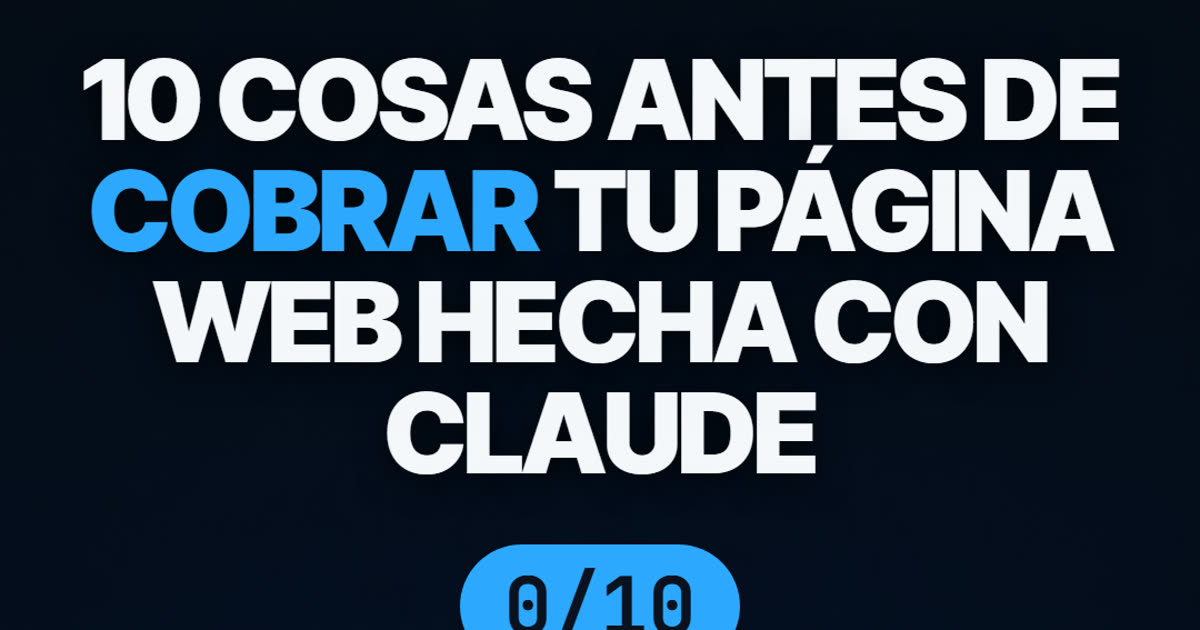
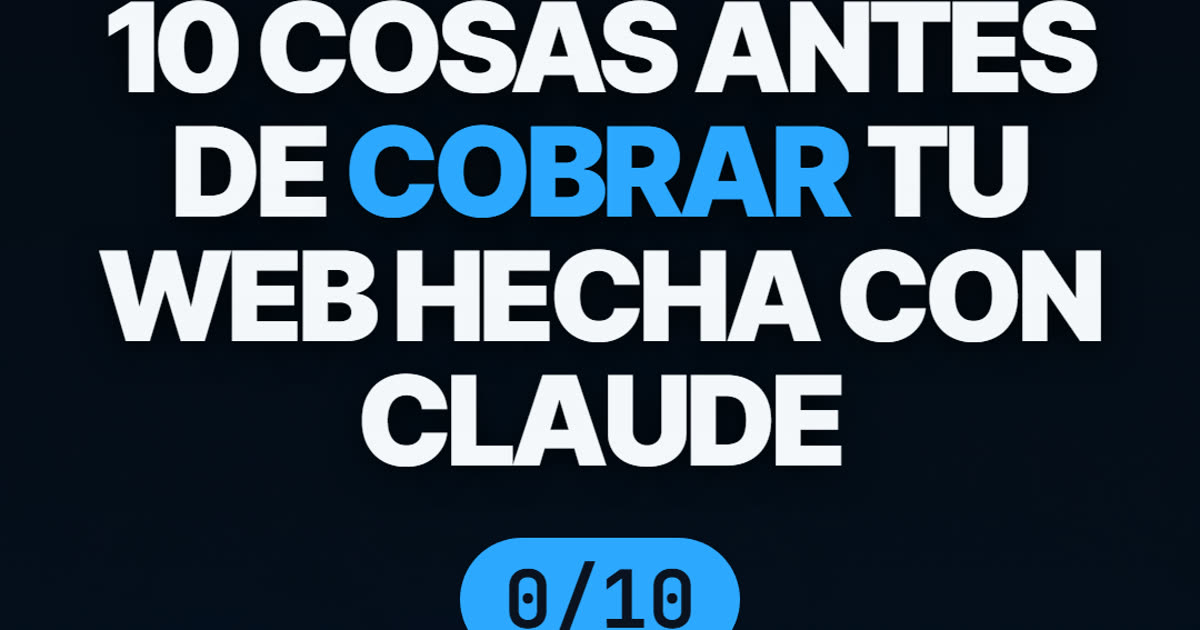
fix: guía WEB con el título corto y la portada nueva de P026.1

diff --git a/index.html b/index.html
@@ -42,7 +42,7 @@ footer a{color:var(--ink)}
 .lista li{margin:0 0 12px}
 .lista a{display:block;text-decoration:none;color:var(--ink);background:var(--card);border:1px solid var(--borde);border-radius:14px;padding:14px 16px}
 .lista b{display:inline-block;color:#111;background:var(--acento);border-radius:6px;padding:1px 8px;margin-right:8px;font-size:13px}</style></head>
-<body><div class="envoltura"><header><a class="marca" href="./">Lumière <span>Autómata</span></a></header><h1>Guías gratis</h1><p class="intro">Las guías y prompts que regalo en mis reels. Toca la tuya.</p><ul class="lista"><li><a href="./app/"><b>APP</b>Checklist APP · 10 cosas antes de cobrar tu app hecha con Claude</a></li><li><a href="./web/"><b>WEB</b>Checklist WEB · 10 cosas antes de cobrar tu página web hecha con Claude</a></li><li><a href="./plan/"><b>PLAN</b>Los 6 prompts de Claude para tu Instagram (Lumière Autómata)</a></li><li><a href="./lenta/"><b>LENTA</b>Guía LENTA · El prompt que revisa tu app antes de tocarla</a></li><li><a href="./memoria/"><b>MEMORIA</b>Revisa lo que ChatGPT recuerda de ti</a></li><li><a href="./candado/"><b>CANDADO</b>5 ajustes de privacidad de WhatsApp</a></li><li><a href="./sonido/"><b>SONIDO</b>Guía SONIDO · que tu video hecho con Claude no suene a juguete</a></li><li><a href="./texto/"><b>TEXTO</b>3 animaciones de texto para tu video con Claude y Remotion</a></li><li><a href="./siete/"><b>SIETE</b>Escribe tu guion al revés: el orden de las 8 piezas</a></li><li><a href="./agenda/"><b>AGENDA</b>3 preguntas para saber si tu agente de WhatsApp agenda de verdad</a></li><li><a href="./obra/"><b>OBRA</b>Los 4 agentes de WhatsApp para tu constructora (Lumière Autómata)</a></li><li><a href="./tics/"><b>TICS</b>Tics que delatan un texto hecho con IA (en español)</a></li></ul><footer>Hecho por <a href="https://lumiereautomata.com" target="_blank" rel="noopener">Lumière Autómata</a>. Si te sirvió, sígueme en Instagram: <a href="https://www.instagram.com/lumiereautomata/" target="_blank" rel="noopener">@lumiereautomata</a>.</footer></div><script>document.querySelectorAll('.copiar').forEach(function(b){b.addEventListener('click',function(){
+<body><div class="envoltura"><header><a class="marca" href="./">Lumière <span>Autómata</span></a></header><h1>Guías gratis</h1><p class="intro">Las guías y prompts que regalo en mis reels. Toca la tuya.</p><ul class="lista"><li><a href="./app/"><b>APP</b>Checklist APP · 10 cosas antes de cobrar tu app hecha con Claude</a></li><li><a href="./web/"><b>WEB</b>Checklist WEB · 10 cosas antes de cobrar tu web hecha con Claude</a></li><li><a href="./plan/"><b>PLAN</b>Los 6 prompts de Claude para tu Instagram (Lumière Autómata)</a></li><li><a href="./lenta/"><b>LENTA</b>Guía LENTA · El prompt que revisa tu app antes de tocarla</a></li><li><a href="./memoria/"><b>MEMORIA</b>Revisa lo que ChatGPT recuerda de ti</a></li><li><a href="./candado/"><b>CANDADO</b>5 ajustes de privacidad de WhatsApp</a></li><li><a href="./sonido/"><b>SONIDO</b>Guía SONIDO · que tu video hecho con Claude no suene a juguete</a></li><li><a href="./texto/"><b>TEXTO</b>3 animaciones de texto para tu video con Claude y Remotion</a></li><li><a href="./siete/"><b>SIETE</b>Escribe tu guion al revés: el orden de las 8 piezas</a></li><li><a href="./agenda/"><b>AGENDA</b>3 preguntas para saber si tu agente de WhatsApp agenda de verdad</a></li><li><a href="./obra/"><b>OBRA</b>Los 4 agentes de WhatsApp para tu constructora (Lumière Autómata)</a></li><li><a href="./tics/"><b>TICS</b>Tics que delatan un texto hecho con IA (en español)</a></li></ul><footer>Hecho por <a href="https://lumiereautomata.com" target="_blank" rel="noopener">Lumière Autómata</a>. Si te sirvió, sígueme en Instagram: <a href="https://www.instagram.com/lumiereautomata/" target="_blank" rel="noopener">@lumiereautomata</a>.</footer></div><script>document.querySelectorAll('.copiar').forEach(function(b){b.addEventListener('click',function(){
 var t=b.parentNode.querySelector('code').innerText;
 function listo(){b.textContent='¡Copiado!';b.classList.add('ok');setTimeout(function(){b.textContent='Copiar';b.classList.remove('ok')},1800)}
 function respaldo(){var a=document.createElement('textarea');a.value=t;a.setAttribute('readonly','');a.style.position='fixed';a.style.opacity='0';document.body.appendChild(a);a.select();try{document.execCommand('copy');listo()}catch(e){}document.body.removeChild(a)}

diff --git a/web/index.html b/web/index.html
@@ -1,9 +1,9 @@
 <!doctype html>
 <html lang="es"><head><meta charset="utf-8"><meta name="viewport" content="width=device-width,initial-scale=1">
-<title>Checklist WEB · 10 cosas antes de cobrar tu página web hecha con Claude · Lumière Autómata</title>
+<title>Checklist WEB · 10 cosas antes de cobrar tu web hecha con Claude · Lumière Autómata</title>
 <meta name="description" content="Un prompt por punto para que Claude Code revise tu página web antes de cobrarla: SEO, captcha, Git, integraciones, hosting con HTTPS, rate limiting, imágenes, CDN, monitoreo y respaldos.">
 <meta property="og:site_name" content="Lumière Autómata"><meta property="og:type" content="article">
-<meta property="og:title" content="Checklist WEB · 10 cosas antes de cobrar tu página web hecha con Claude"><meta property="og:description" content="Un prompt por punto para que Claude Code revise tu página web antes de cobrarla: SEO, captcha, Git, integraciones, hosting con HTTPS, rate limiting, imágenes, CDN, monitoreo y respaldos.">
+<meta property="og:title" content="Checklist WEB · 10 cosas antes de cobrar tu web hecha con Claude"><meta property="og:description" content="Un prompt por punto para que Claude Code revise tu página web antes de cobrarla: SEO, captcha, Git, integraciones, hosting con HTTPS, rate limiting, imágenes, CDN, monitoreo y respaldos.">
 <meta property="og:image" content="https://arqjorgeml1204.github.io/lumiere-guias/web/og.jpg"><meta name="twitter:card" content="summary_large_image">
 <meta name="theme-color" content="#0B1220">
 <link rel="preconnect" href="https://fonts.googleapis.com"><link rel="preconnect" href="https://fonts.gstatic.com" crossorigin>
@@ -43,7 +43,7 @@ footer a{color:var(--ink)}
 .lista a{display:block;text-decoration:none;color:var(--ink);background:var(--card);border:1px solid var(--borde);border-radius:14px;padding:14px 16px}
 .lista b{display:inline-block;color:#111;background:var(--acento);border-radius:6px;padding:1px 8px;margin-right:8px;font-size:13px}</style></head>
 <body><div class="envoltura"><header><a class="marca" href="../">Lumière <span>Autómata</span></a><span class="pastilla">Comentaste WEB</span></header>
-<h1>Checklist WEB · 10 cosas antes de cobrar tu página web hecha con Claude</h1>
+<h1>Checklist WEB · 10 cosas antes de cobrar tu web hecha con Claude</h1>
 <article><p>Abre tu proyecto en Claude Code y pega cada prompt. Claude <strong>revisa primero y te dice qué encontró</strong>; tú decides qué arreglar. No le pidas que cambie todo de golpe.</p>
 <p>Antes de empezar, pega esto una vez:</p>
 <div class="prompt"><button type="button" class="copiar">Copiar</button><pre><code>Vas a auditar mi página web antes de que la cobre. Para cada punto que te pida:

diff --git a/fuentes/web.md b/fuentes/web.md
@@ -1,4 +1,4 @@
-# Checklist WEB · 10 cosas antes de cobrar tu página web hecha con Claude
+# Checklist WEB · 10 cosas antes de cobrar tu web hecha con Claude
 
 Abre tu proyecto en Claude Code y pega cada prompt. Claude **revisa primero y te dice qué encontró**; tú decides qué arreglar. No le pidas que cambie todo de golpe.
 
